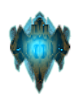
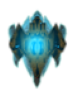
minor name changes, method refractors and image resizing

diff --git a/GameMode.cs b/GameMode.cs
@@ -121,17 +121,17 @@ namespace SpaceShooter
                     _limits[EnemyType.Spacemine] = 2;
                     break;
                 case 3:
-                    _limits[EnemyType.BlueAlienship] = 3;
-                    _limits[EnemyType.RedAlienship] = 5;
+                    _limits[EnemyType.BlueAlienship] = 2;
+                    _limits[EnemyType.RedAlienship] = 4;
                     _limits[EnemyType.Asteroid] = 4;
                     _limits[EnemyType.Spacemine] = 2;
                     break;
                 case 4:
-                    _limits[EnemyType.BlueAlienship] = 3;
+                    _limits[EnemyType.BlueAlienship] = 2;
                     _limits[EnemyType.PurpleAlienship] = 2;
                     _limits[EnemyType.RedAlienship] = 4;
                     _limits[EnemyType.KamikazeAlien] = 3;
-                    _limits[EnemyType.Asteroid] = 5;
+                    _limits[EnemyType.Asteroid] = 4;
                     _limits[EnemyType.Spacemine] = 3; 
                     break;
                 default: throw new NotImplementedException($"The level {_level} is not implemented");
@@ -161,7 +161,7 @@ namespace SpaceShooter
                     break;
                 case 1:
                     SpawnRate = SplashKit.Rnd(0,70);
-                    _limits[EnemyType.BlueAlienship] = 4;
+                    _limits[EnemyType.BlueAlienship] = 3;
                     _limits[EnemyType.PurpleAlienship] = 3;
                     _limits[EnemyType.RedAlienship] = 2;
                     _limits[EnemyType.KamikazeAlien] = 2;
@@ -170,11 +170,11 @@ namespace SpaceShooter
                     break;
                 case 2: 
                     SpawnRate = SplashKit.Rnd(0,65);
-                    _limits[EnemyType.BlueAlienship] = 5;
+                    _limits[EnemyType.BlueAlienship] = 3;
                     _limits[EnemyType.PurpleAlienship] = 3;
                     _limits[EnemyType.RedAlienship] = 2;
                     _limits[EnemyType.KamikazeAlien] = 2;
-                    _limits[EnemyType.Asteroid] = 7;
+                    _limits[EnemyType.Asteroid] = 5;
                     _limits[EnemyType.Spacemine] = 3;
                     break;
                 default: throw new IndexOutOfRangeException($"The stage index exceeds 2");

diff --git a/LogicHandler.cs b/LogicHandler.cs
@@ -22,28 +22,32 @@ namespace SpaceShooter
 
             UpdateExplosions(_session.Explosions);
             UpdatePlayer();
-            CollisionCheck();
+            EnemyKillCheck();
             _enemyController.UpdateEnemies();
             UpdateProjectiles(_session.PlayerProjectiles);
             UpdateProjectiles(_session.EnemyProjectiles);
             ProjectileCheck(_session.Player, _session.EnemyProjectiles);
         }
-        private void CollisionCheck()
+        private void EnemyKillCheck()
         {
             foreach(var enemy in _gameMode.Enemies)
             {
                 ProjectileCheck(enemy, _session.PlayerProjectiles);
-                EnemyRemovalCheck(enemy);
+                if (enemy.Y > Global.Height || enemy.Health <= 0)
+                {
+                    _gameMode.RemoveEnemy(enemy);            
+                }
                 if (_session.Player.CollideWith(enemy.Image, enemy.X, enemy.Y) && 
-                !(enemy.Type != EnemyType.PhantomBoss && enemy.Type != EnemyType.NightmareBoss))
+                !(nameof(enemy.Type).Contains("Boss")))
                 { 
                     _session.Player.LoseHealth(enemy.CollisionDamage);
-                    _session.Explosions.Add(new Explosion(_session.Player.X, _session.Player.Y, Explosion.Type.Fire));
+                    var explosion = new Explosion(_session.Player.X, _session.Player.Y);
+                    _session.Explosions.Add(explosion);
                     enemy.LoseHealth(100);
                 }
             }
         }
-        private void ProjectileCheck(IShootableObject target, List<Bullet> projectiles)
+        private void ProjectileCheck(IKillable target, List<Bullet> projectiles)
         {
             foreach(var projectile in projectiles.ToArray())
             {
@@ -69,13 +73,6 @@ namespace SpaceShooter
             foreach (var explosion in explosions.ToArray())
             {
                 if (explosion.AnimationEnded) _session.Explosions.Remove(explosion);
-            }
-        }
-        private void EnemyRemovalCheck(Enemy enemy)
-        {
-            if (enemy.Y > Global.Height || enemy.Health <= 0)
-            {
-                _gameMode.RemoveEnemy(enemy);            
             }
         }
         private void UpdatePlayer()

diff --git a/Enemy.cs b/Enemy.cs
@@ -3,22 +3,22 @@ using SplashKitSDK;
 
 namespace SpaceShooter
 {
-    public abstract class Enemy : DrawableObject, IShootableObject
+    public abstract class Enemy : DrawableObject, IKillable
     {
         protected IMoveStrategy _movePattern; 
         public int CollisionDamage{get; protected set;} = 10;
         public int Health{get; protected set;} = 1;
         public EnemyType Type{get; init;}
-        public void LoseHealth(int damage) => Health -= damage;
-        public virtual void Update()
-        {
-            _position = _movePattern.Move(_position);
-        }
         public Enemy(Position position, IMoveStrategy movePattern, EnemyType type) 
         {
             _position = position;
             _movePattern = movePattern;
             Type = type;
+        }
+        public void LoseHealth(int damage) => Health -= damage;
+        public virtual void Update()
+        {
+            _position = _movePattern.Move(_position);
         }
     }
 }

diff --git a/Renderer.cs b/Renderer.cs
@@ -15,14 +15,15 @@ namespace SpaceShooter
         public void Draw()
         {
             _session.Player.Draw();
-            foreach( var enemy in _session.Enemies)
-            {
-                enemy.Draw();
-            }
-            _session.PlayerProjectiles.ForEach(projectile => projectile.Draw());
-            _session.EnemyProjectiles.ForEach(projectile => projectile.Draw());
-            _session.Explosions.ForEach(explosion => explosion.Draw());
+            DrawFromList(_session.PlayerProjectiles);
+            DrawFromList(_session.EnemyProjectiles);
+            DrawFromList(_session.Explosions);
+            DrawFromList(_session.Enemies);
             DrawPlayerInfo();
+        }
+        private void DrawFromList(IEnumerable<DrawableObject> collection)
+        {
+            foreach(var item in collection) item.Draw();
         }
         private void DrawPlayerInfo()
         {

diff --git a/Bullet.cs b/Bullet.cs
@@ -34,7 +34,7 @@ namespace SpaceShooter
                     Damage = 25;
                     break;
                 case Type.BlueLaser:
-                    bitmap = SplashKit.LoadBitmap("BlueLaser", "Bullets/BlueLaser.png");
+                    bitmap = SplashKit.LoadBitmap("BlueLaser", "Bullets/BlueLaser2.png");
                     _speed = 7;
                     Damage = 7;
                     break;

diff --git a/Player.cs b/Player.cs
@@ -4,7 +4,7 @@ using System.Collections.Generic;
 namespace SpaceShooter
 
 {
-    public class Player : DrawableObject, IShootableObject
+    public class Player : DrawableObject, IKillable
     {
         public bool CoolDownEnded{get => _currentGun.OverheatEnded;}
         private readonly double _swapTimeDuration = 0.5;

diff --git a/Explosion.cs b/Explosion.cs
@@ -20,6 +20,7 @@ namespace SpaceShooter
             _position = new Position(x, y);
             Image = SetAnimations(type);
         }
+        public Explosion(int x, int y) : this(x, y, Type.Fire){}
         public AnimatedImage SetAnimations(Type type)
         {
             switch(type)

diff --git a/Interface.cs b/Interface.cs
@@ -7,7 +7,7 @@ namespace SpaceShooter
         public bool OverheatEnded{get;}
         public Bullet Shoot();
     }
-    public interface IShootableObject
+    public interface IKillable
     {
         public Image Image{get;}
         public int X{get;}
